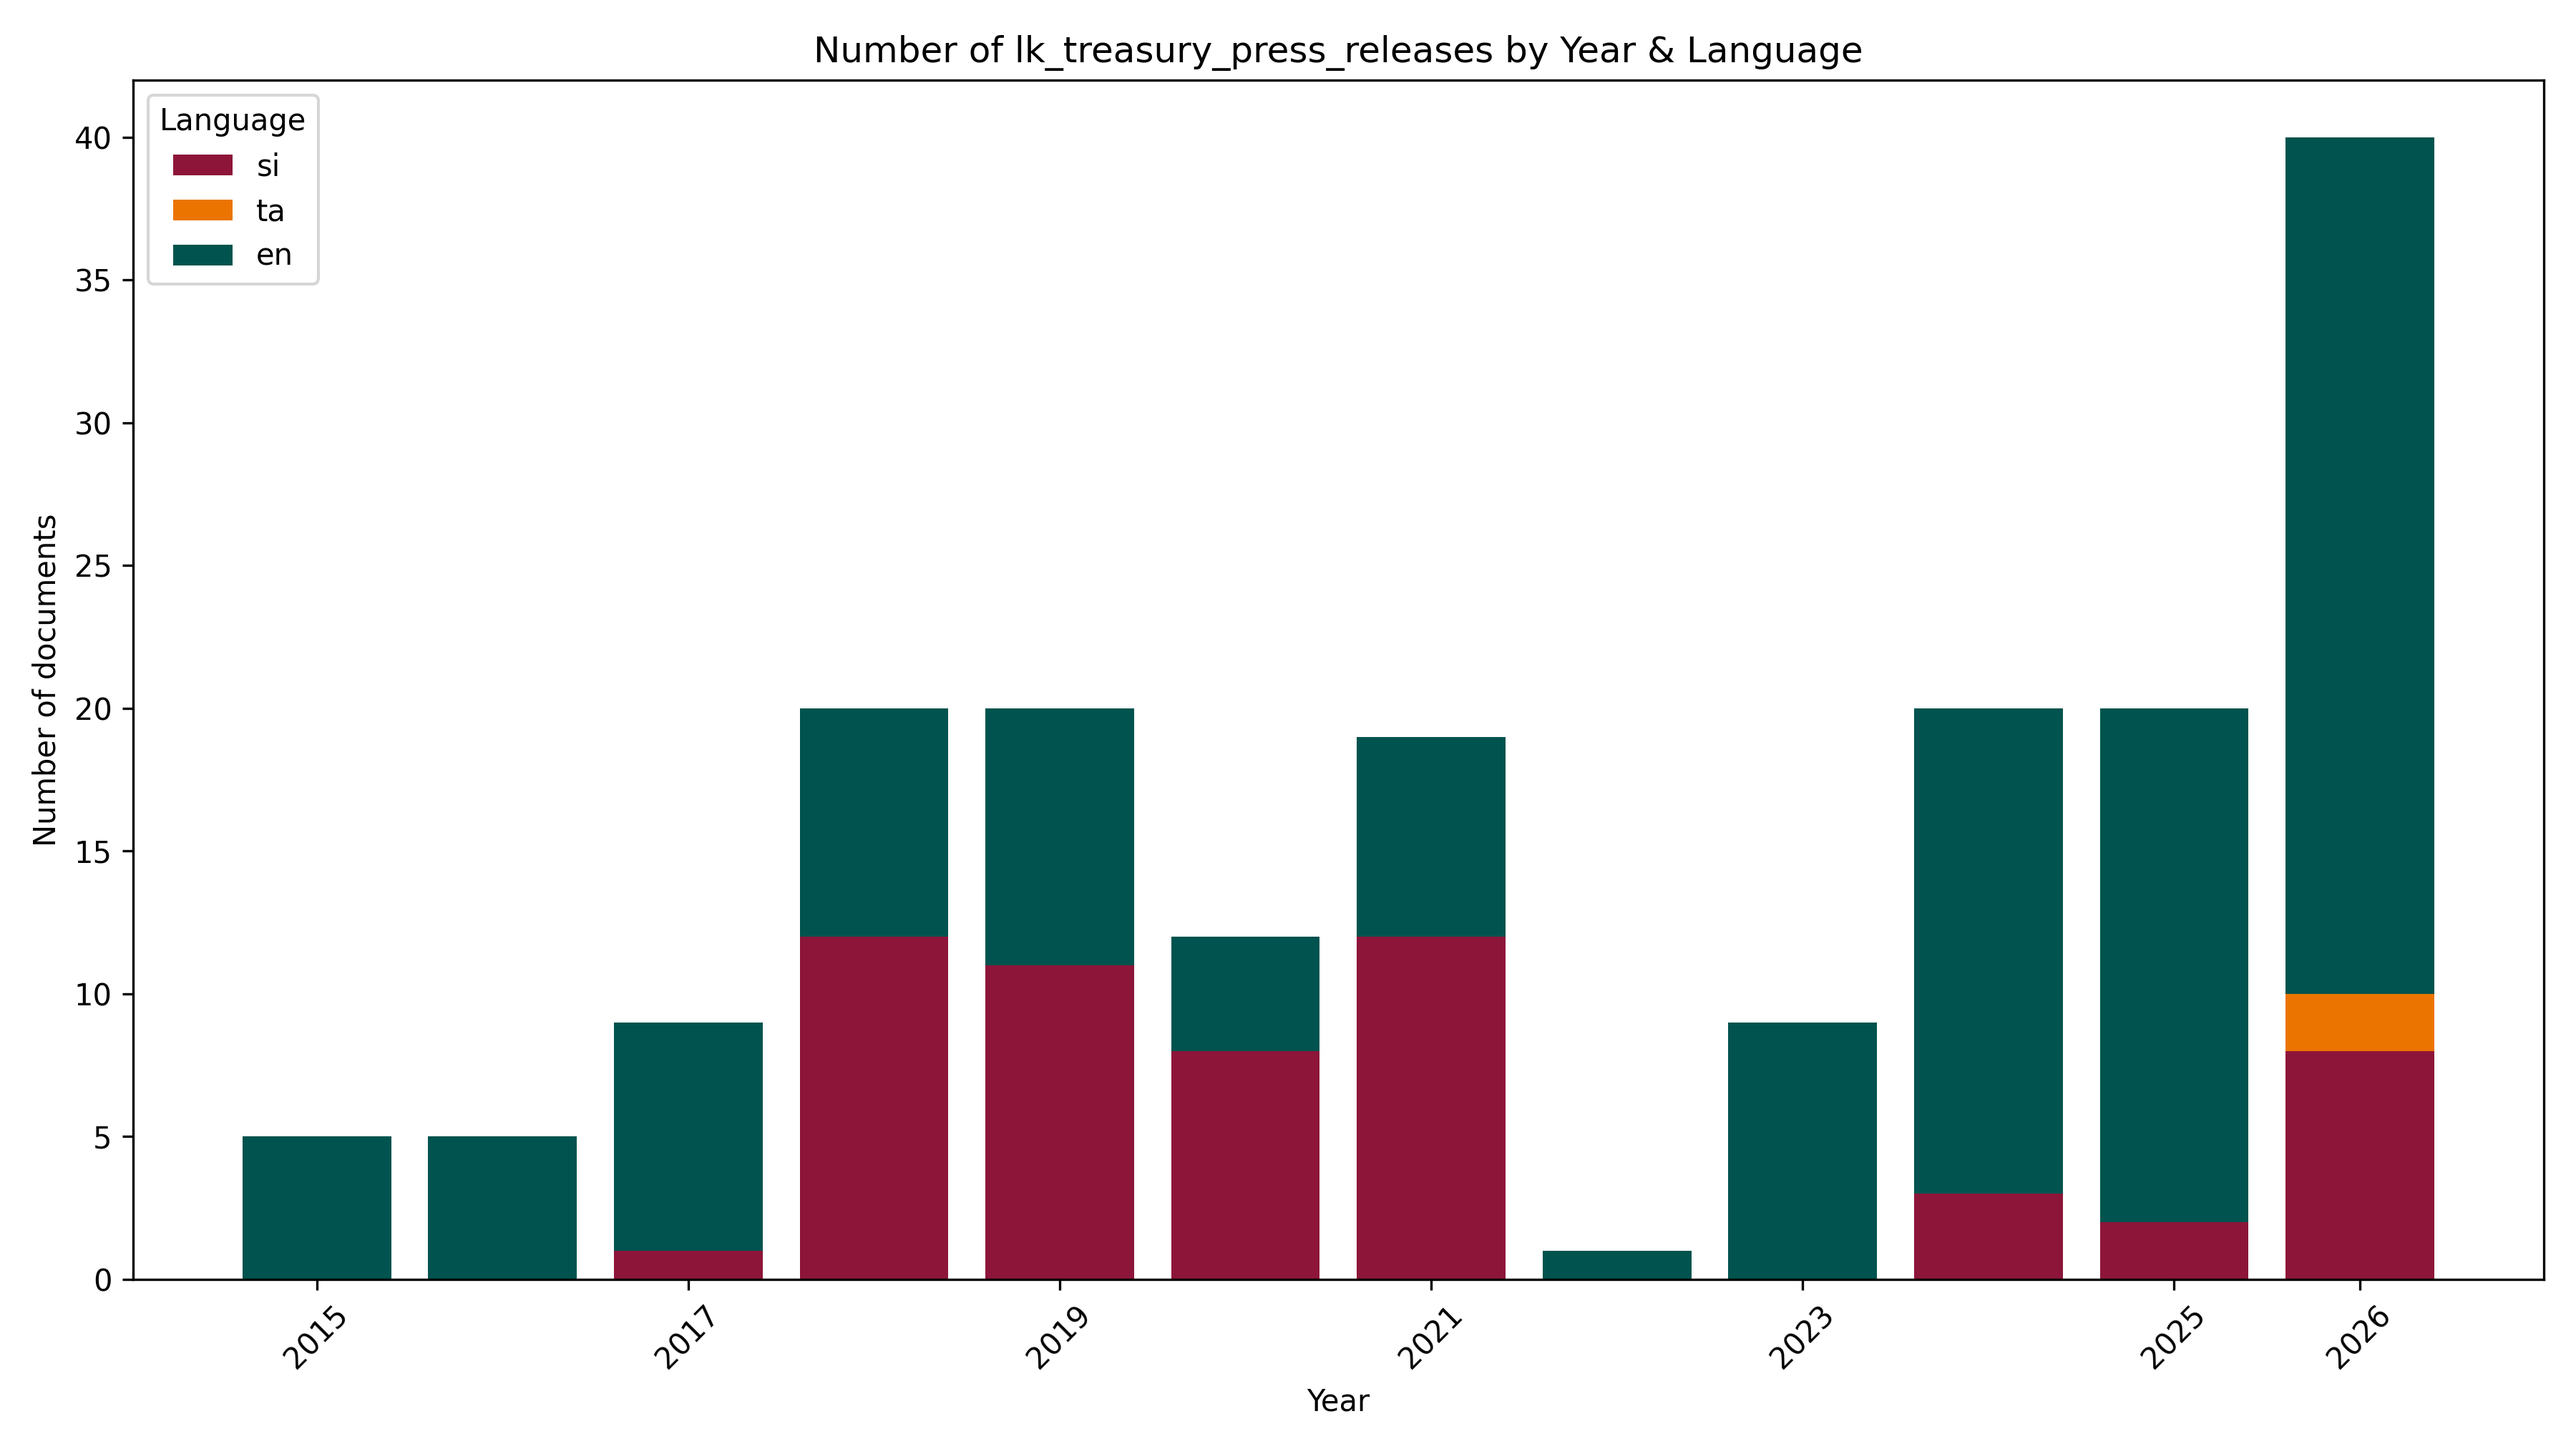
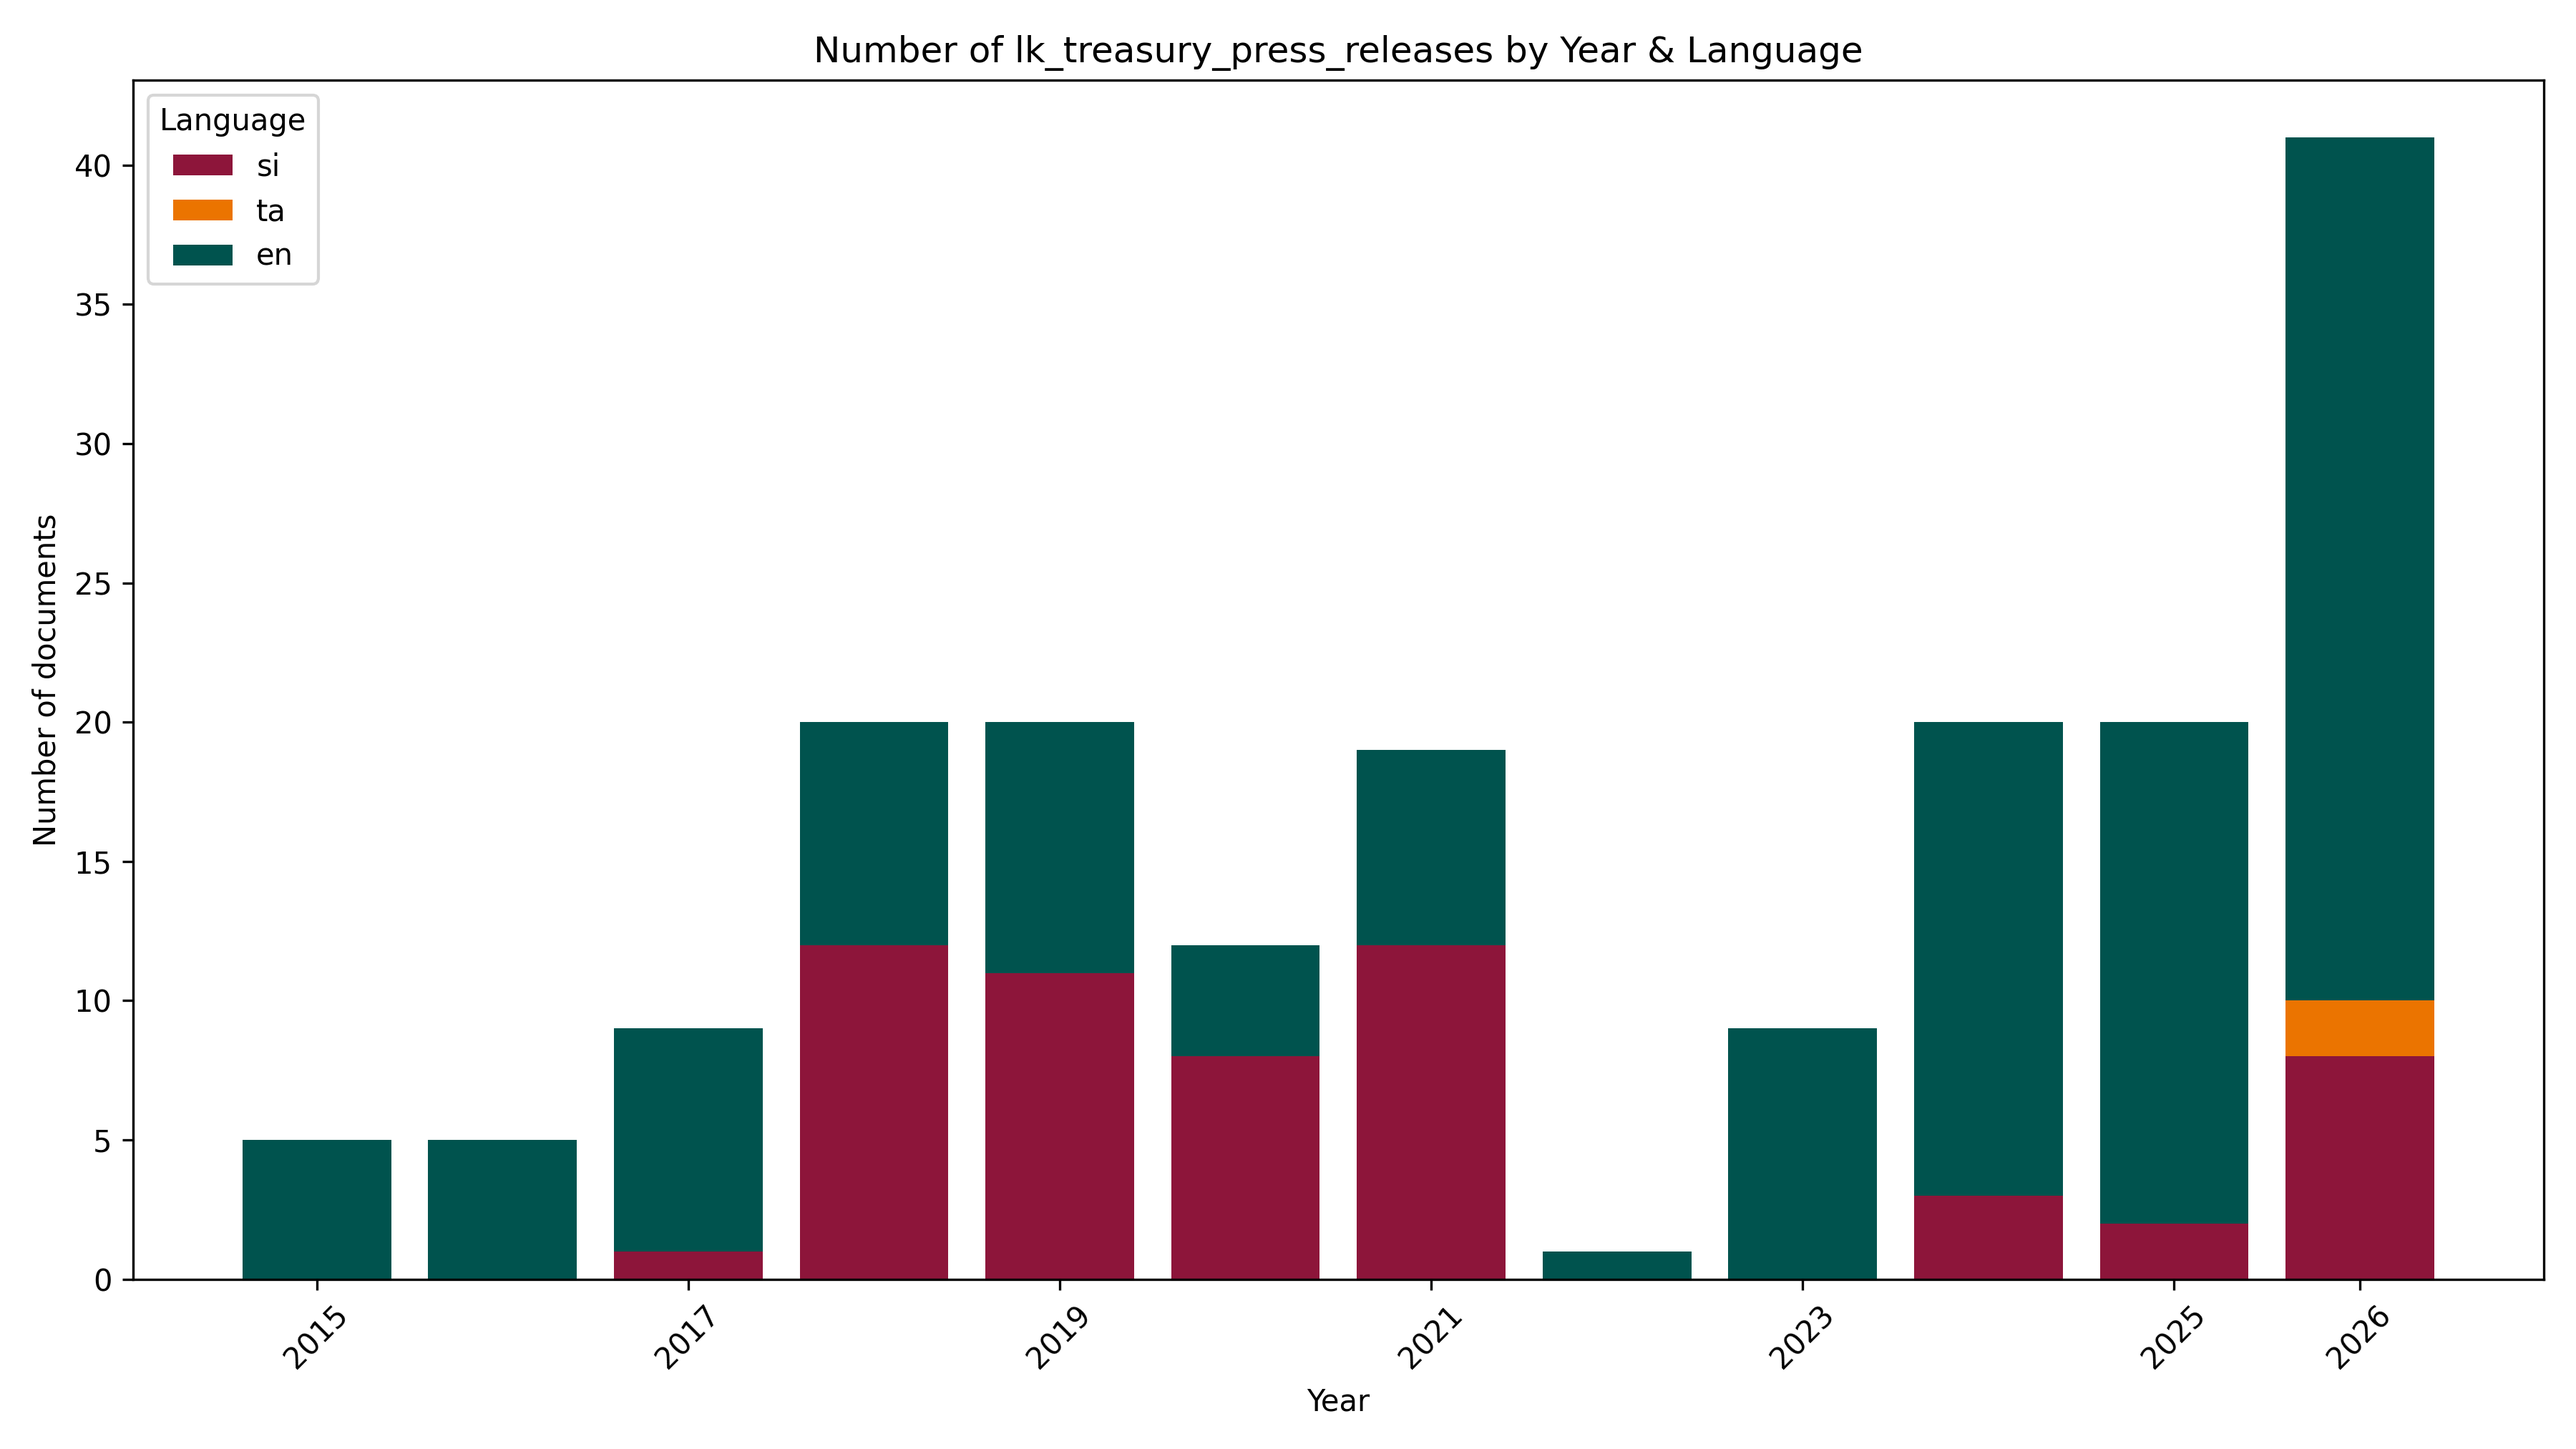
🤖 [pipeline.yml] 2026-11-05-1439

diff --git a/data/lk_treasury_press_releases/README.md b/data/lk_treasury_press_releases/README.md
@@ -1,12 +1,12 @@
 # 💰#SriLanka 🇱🇰 Treasury Press Releases `Dataset`
 
-![LastUpdated](https://img.shields.io/badge/last_updated-2026--11--05_19:08:42-green)
+![LastUpdated](https://img.shields.io/badge/last_updated-2026--11--05_20:09:11-green)
 
 [https://github.com/nuuuwan/lk_treasury/tree/data_lk_treasury_press_releases/data/lk_treasury_press_releases](https://github.com/nuuuwan/lk_treasury/tree/data_lk_treasury_press_releases/data/lk_treasury_press_releases)
 
 A Sri Lanka Treasury press release shares key govt financial updates—on budgets, debt, or policy—vital for transparency, guiding investors, citizens, and markets on the nation’s economic direction.
 
-- [**180** documents](https://github.com/nuuuwan/lk_treasury/tree/data_lk_treasury_press_releases/data/lk_treasury_press_releases) (**180.9 MB**), from **2015-09-08** to **2026-10-28**, scraped from [https://www.treasury.gov.lk](https://www.treasury.gov.lk)
+- [**181** documents](https://github.com/nuuuwan/lk_treasury/tree/data_lk_treasury_press_releases/data/lk_treasury_press_releases) (**180.9 MB**), from **2015-09-08** to **2026-11-05**, scraped from [https://www.treasury.gov.lk](https://www.treasury.gov.lk)
 
 - In **JSON**, **PDF** (99%), **TXT** (99%) & **🤗 Hugging Face** (99%)
 
@@ -19,13 +19,13 @@ A Sri Lanka Treasury press release shares key govt financial updates—on budget
 ```json
 {
     "doc_type": "lk_treasury_press_releases",
-    "doc_id": "2026-10-28-27b251",
-    "num": "27b251",
-    "date_str": "2026-10-28",
-    "description": "Workshop on Sri Lanka\u2019s National Disaster Risk Financing Strategy",
+    "doc_id": "2026-11-05-c1675f",
+    "num": "c1675f",
+    "date_str": "2026-11-05",
+    "description": "National Single Window for Trade Goes Live from Today",
     "url_metadata": "https://www.treasury.gov.lk//web/press-releases/section/2026",
     "lang": "en",
-    "url_pdf": "https://www.treasury.gov.lk//api/file/e2009cde-e1dd-4197-9ae1-36b650460791"
+    "url_pdf": "https://www.treasury.gov.lk//api/file/a58b87d2-306d-4e9d-b686-fdeb53c30f64"
 }
 ```
 
@@ -40,6 +40,7 @@ A Sri Lanka Treasury press release shares key govt financial updates—on budget
 
 ## 🆕 20 Latest documents
 
+- 2026-11-05 | `c1675f` | National Single Window for Trade Goes Live from Today | [data](https://github.com/nuuuwan/lk_treasury/tree/data_lk_treasury_press_releases/data/lk_treasury_press_releases/2020s/2026/2026-11-05-c1675f)
 - 2026-10-28 | `27b251` | Workshop on Sri Lanka’s National Disaster Risk Financing Strategy | [data](https://github.com/nuuuwan/lk_treasury/tree/data_lk_treasury_press_releases/data/lk_treasury_press_releases/2020s/2026/2026-10-28-27b251)
 - 2026-10-16 | `2fbde4` | Pre-Bid Meeting: Domestic Dollar Bond (DDB) 2026 | [data](https://github.com/nuuuwan/lk_treasury/tree/data_lk_treasury_press_releases/data/lk_treasury_press_releases/2020s/2026/2026-10-16-2fbde4)
 - 2026-10-12 | `3075bf` | Offer Document | Domestic Dollar Bonds (DDBs) | [data](https://github.com/nuuuwan/lk_treasury/tree/data_lk_treasury_press_releases/data/lk_treasury_press_releases/2020s/2026/2026-10-12-3075bf)
@@ -59,7 +60,6 @@ A Sri Lanka Treasury press release shares key govt financial updates—on budget
 - 2026-08-24 | `3a77e7` | Accelerated Programme for the Purchase of Paddy during Yala Season - 2026 | [data](https://github.com/nuuuwan/lk_treasury/tree/data_lk_treasury_press_releases/data/lk_treasury_press_releases/2020s/2026/2026-08-24-3a77e7)
 - 2026-08-24 | `299ada` | 2026 යල කන්නයේ වී අස්වනු මිලදී ගැනීමේ කඩිනම් වැඩපිළිවෙල | [data](https://github.com/nuuuwan/lk_treasury/tree/data_lk_treasury_press_releases/data/lk_treasury_press_releases/2020s/2026/2026-08-24-299ada)
 - 2026-08-21 | `57234c` | Establishment of an Independent Appeal Committee for Procurement Sanctions | [data](https://github.com/nuuuwan/lk_treasury/tree/data_lk_treasury_press_releases/data/lk_treasury_press_releases/2020s/2026/2026-08-21-57234c)
-- 2026-08-18 | `cb2e2e` | Financial Assistance from the Asian Development Bank for the Post-Cyclone Ditwah Reconstruction and Livelihoods Support Project | [data](https://github.com/nuuuwan/lk_treasury/tree/data_lk_treasury_press_releases/data/lk_treasury_press_releases/2020s/2026/2026-08-18-cb2e2e)
 
 ---
 
